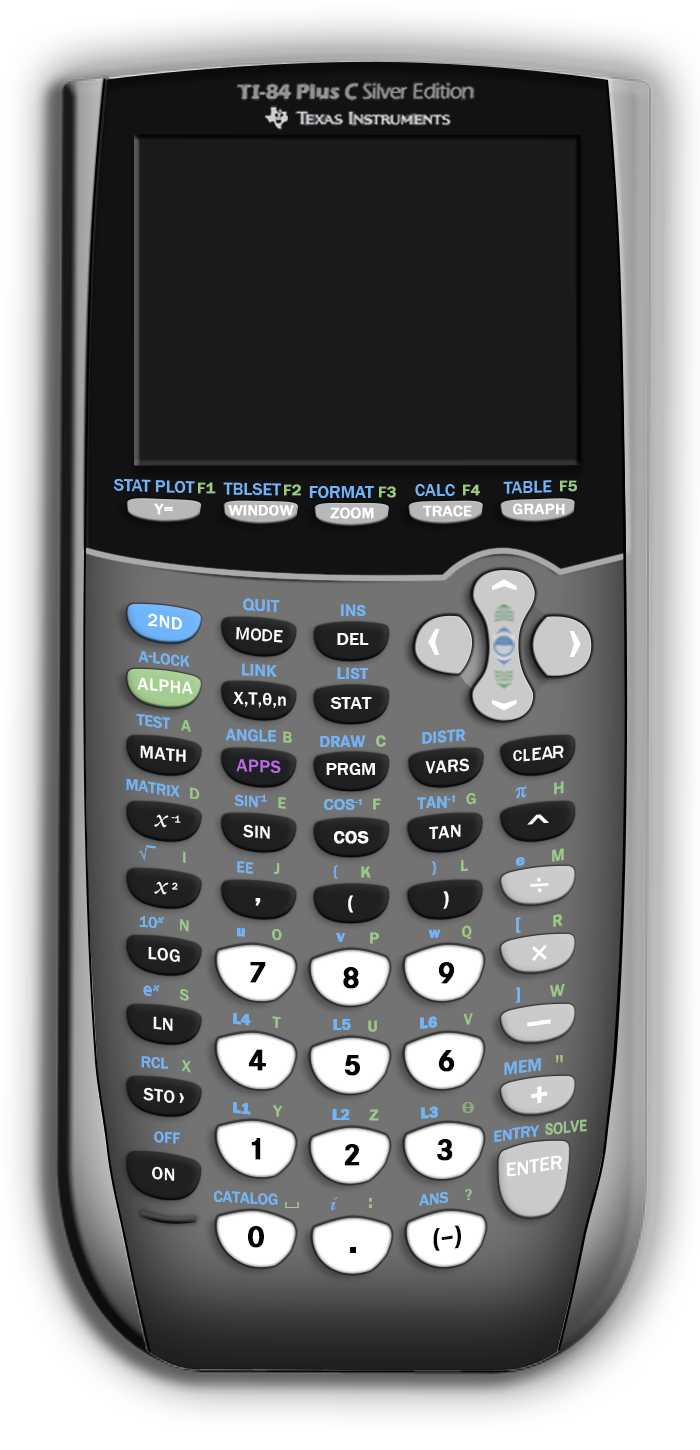
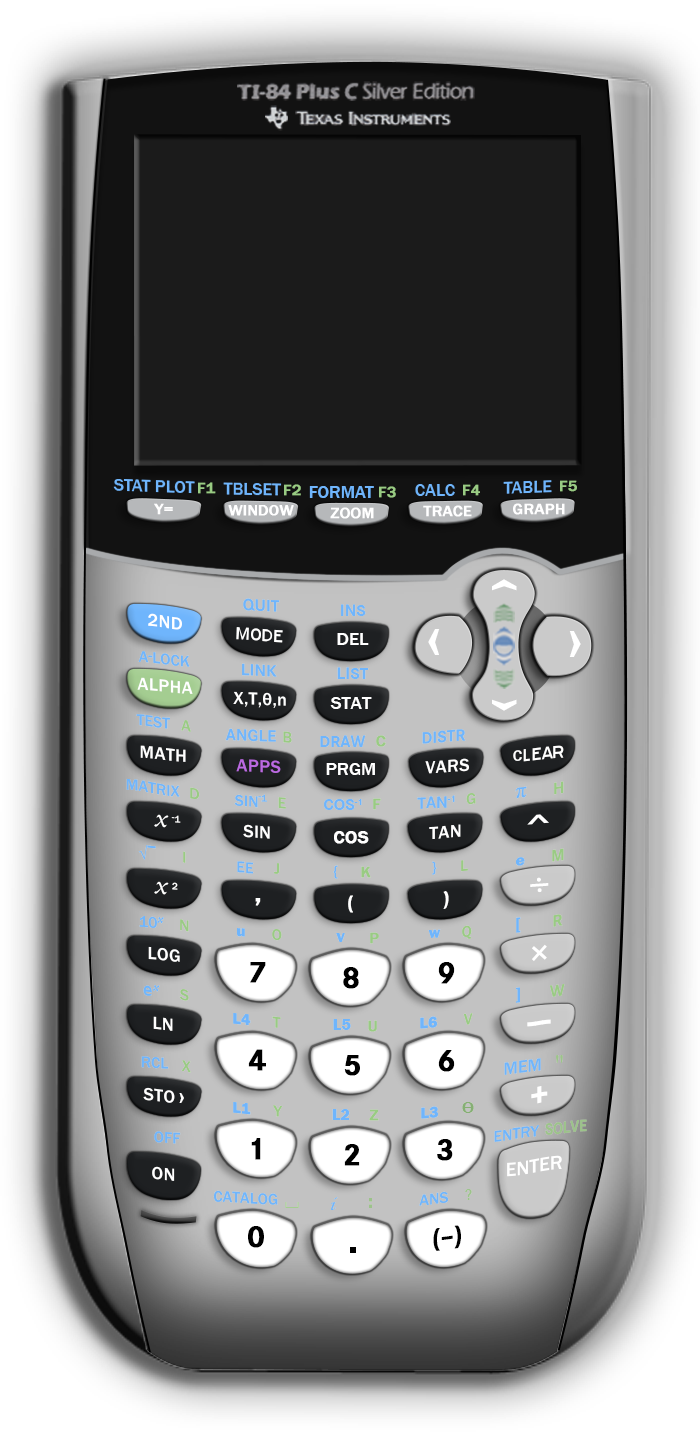
Improved faceplate colorization for 84PCSE Added export option for COM interface

Changed region(s): [[0.12, 0.3724, 0.9, 0.9621]]

diff --git a/interface/CWabbitemu.cpp b/interface/CWabbitemu.cpp
@@ -284,7 +284,7 @@ STDMETHODIMP CWabbitemu::get_Symbols(ITISymbolCollection **ppSymList)
 	CComObject<CTISymbolCollection> *pSymbolCollObj;
 	CComObject<CTISymbolCollection>::CreateInstance(&pSymbolCollObj);
 	pSymbolCollObj->AddRef();
-	pSymbolCollObj->Initialize((CalcModel) m_lpCalc->model, m_pMem, m_lpCalc);
+	pSymbolCollObj->Initialize(m_lpCalc, m_pMem);
 
 	HRESULT hr = pSymbolCollObj->QueryInterface(ppSymList);
 	pSymbolCollObj->Release();
@@ -294,7 +294,8 @@ STDMETHODIMP CWabbitemu::get_Symbols(ITISymbolCollection **ppSymList)
 
 STDMETHODIMP CWabbitemu::get_Keypad(IKeypad **ppKeypad)
 {
-	if (m_pKeypad == NULL) {
+	if (m_pKeypad == NULL)
+	{
 		return E_POINTER;
 	}
 
@@ -313,8 +314,8 @@ STDMETHODIMP CWabbitemu::get_Running(VARIANT_BOOL *lpfRunning)
 	return S_OK;
 }
 
-STDMETHODIMP CWabbitemu::get_Model(CALC_MODEL *lpCalcModel)
+STDMETHODIMP CWabbitemu::get_Model(CalcModel *lpCalcModel)
 {
-	*lpCalcModel = (CALC_MODEL) (m_lpCalc->model);
+	*lpCalcModel = m_lpCalc->model;
 	return S_OK;
 }

diff --git a/interface/CTISymbol.cpp b/interface/CTISymbol.cpp
@@ -1,6 +1,7 @@
 #include "stdafx.h"
 
 #include "CTISymbol.h"
+#include "exportvar.h"
 
 STDMETHODIMP CTISymbol::get_Type(SymbolType *lpSymbolType) {
 	*lpSymbolType = (SymbolType) m_Symbol.type_ID;
@@ -35,7 +36,7 @@ STDMETHODIMP CTISymbol::get_Address(WORD *lpAddr) {
 
 STDMETHODIMP CTISymbol::get_Name(BSTR *lpName) {
 	TCHAR real_name[256] = { 0 };
-	Symbol_Name_to_String(m_Model, &m_Symbol, real_name);
+	Symbol_Name_to_String(m_lpCalc->model , &m_Symbol, real_name);
 #ifdef _UNICODE
 	*lpName = SysAllocString((OLECHAR *)real_name);
 #else
@@ -43,5 +44,15 @@ STDMETHODIMP CTISymbol::get_Name(BSTR *lpName) {
 	MultiByteToWideChar(CP_ACP, 0, real_name, -1, wszSymName, ARRAYSIZE(wszSymName));
 	*lpName = SysAllocString((OLECHAR *)wszSymName);
 #endif
+	return S_OK;
+}
+
+STDMETHODIMP CTISymbol::Export(BSTR bstrFileName) {
+	MFILE *file = ExportVar(m_lpCalc, bstr_t(bstrFileName), &m_Symbol);
+	if (file == NULL) {
+		return E_FAIL;
+	}
+
+	mclose(file);
 	return S_OK;
 }

diff --git a/Interface/CTISymbolCollection.cpp b/Interface/CTISymbolCollection.cpp
@@ -3,7 +3,7 @@
 #include "CTISymbolCollection.h"
 #include "CTISymbol.h"
 
-HRESULT CTISymbolCollection::Initialize(CalcModel model, IMemoryContext *pMem, LPCALC lpCalc) 
+HRESULT CTISymbolCollection::Initialize(LPCALC lpCalc, IMemoryContext *pMem) 
 {
 	symlist_t symlist;
 	ZeroMemory(&symlist, sizeof(symlist_t));
@@ -13,7 +13,7 @@ HRESULT CTISymbolCollection::Initialize(CalcModel model, IMemoryContext *pMem, L
 	for (u_int i = 0; i < symlist.count; i++) {
 		CComObject<CTISymbol> *pSymbolObj;
 		HRESULT hr = CComObject<CTISymbol>::CreateInstance(&pSymbolObj);
-		pSymbolObj->Initialize(model, pMem, symlist.symbols[i]);
+		pSymbolObj->Initialize(lpCalc, pMem, symlist.symbols[i]);
 
 		CAdapt< CComPtr<ITISymbol> > pSymbol = pSymbolObj;
 		symbols.push_back(pSymbol);

diff --git a/interface/CTISymbol.h b/interface/CTISymbol.h
@@ -2,6 +2,7 @@
 
 #include "core.h"
 #include "state.h"
+#include "calc.h"
 
 class ATL_NO_VTABLE CTISymbol :
 	public CComObjectRootEx<CComMultiThreadModel>,
@@ -18,15 +19,17 @@ public:
 	STDMETHOD(get_Page)(IPage **lppPage);
 	STDMETHOD(get_Address)(WORD *lpAddr);
 	STDMETHOD(get_Name)(BSTR *lpName);
+	
+	STDMETHOD(Export)(BSTR lpFileName);
 
-	void Initialize(CalcModel model, IMemoryContext *pMem, symbol83P_t symbol) {
-		m_Model = model;
+	void Initialize(LPCALC lpCalc, IMemoryContext *pMem, symbol83P_t symbol) {
+		m_lpCalc = lpCalc;
 		m_pMem = pMem;
 		m_Symbol = symbol;
 	}
 
 private:
-	CalcModel m_Model;
+	LPCALC m_lpCalc;
 	CComPtr<IMemoryContext> m_pMem;
 	symbol83P_t m_Symbol;
 };

diff --git a/Interface/CTIApplication.cpp b/Interface/CTIApplication.cpp
@@ -1,6 +1,7 @@
 #include "stdafx.h"
 
 #include "CTIApplication.h"
+#include "exportvar.h"
 
 STDMETHODIMP CTIApplication::get_PageCount(int *lpVersion) {
 	*lpVersion = m_App.page_count;
@@ -25,5 +26,15 @@ STDMETHODIMP CTIApplication::get_Name(BSTR *lpName) {
 	MultiByteToWideChar(CP_ACP, 0, m_App.name, -1, wszSymName, ARRAYSIZE(wszSymName));
 	*lpName = SysAllocString((OLECHAR *)wszSymName);
 #endif
+	return S_OK;
+}
+
+STDMETHODIMP CTIApplication::Export(BSTR bstrFileName) {
+	MFILE *file = ExportApp(m_lpCalc, _bstr_t(bstrFileName), &m_App);
+	if (file == NULL) {
+		return E_FAIL;
+	}
+
+	mclose(file);
 	return S_OK;
 }

diff --git a/interface/CTIApplication.h b/interface/CTIApplication.h
@@ -2,6 +2,7 @@
 
 #include "core.h"
 #include "state.h"
+#include "calc.h"
 
 class ATL_NO_VTABLE CTIApplication :
 	public CComObjectRootEx<CComMultiThreadModel>,
@@ -18,8 +19,11 @@ public:
 	STDMETHOD(get_Page)(IPage **lppPage);
 	STDMETHOD(get_Name)(BSTR *lpName);
 
-	void Initialize(IMemoryContext *pMem, apphdr_t app)
+	STDMETHOD(Export)(BSTR lpFileName);
+
+	void Initialize(IMemoryContext *pMem, LPCALC lpCalc, apphdr_t app)
 	{
+		m_lpCalc = lpCalc;
 		m_pMem = pMem;
 		m_App = app;
 	}
@@ -27,5 +31,6 @@ public:
 private:
 	CComPtr<IMemoryContext> m_pMem;
 	apphdr_t m_App;
+	LPCALC m_lpCalc;
 };
 

diff --git a/interface/CWabbitemu.h b/interface/CWabbitemu.h
@@ -9,7 +9,6 @@
 #include "savestate.h"
 
 struct MainWindow;
-typedef CalcModel CALC_MODEL;
 
 #include "CBreakpointCollection.h"
 #include "CTISymbolCollection.h"
@@ -54,7 +53,7 @@ public:
 	STDMETHOD(get_Memory)(IMemoryContext **ppMemC);
 
 	STDMETHOD(get_Running)(VARIANT_BOOL *lpfRunning);
-	STDMETHOD(get_Model)(CALC_MODEL *lpCalcModel);
+	STDMETHOD(get_Model)(CalcModel *lpCalcModel);
 
 	STDMETHOD(Step)();
 	STDMETHOD(StepOver)();

diff --git a/interface/CTIApplicationCollection.cpp b/interface/CTIApplicationCollection.cpp
@@ -12,7 +12,7 @@ HRESULT CTIApplicationCollection::Initialize(IMemoryContext *pMem, LPCALC lpCalc
 	for (u_int i = 0; i < applist.count; i++) {
 		CComObject<CTIApplication> *pAppObj;
 		HRESULT hr = CComObject<CTIApplication>::CreateInstance(&pAppObj);
-		pAppObj->Initialize(pMem, applist.apps[i]);
+		pAppObj->Initialize(pMem, lpCalc, applist.apps[i]);
 
 		CAdapt< CComPtr<ITIApplication> > pApp = pAppObj;
 		apps.push_back(pApp);

diff --git a/Interface/CTISymbolCollection.h b/Interface/CTISymbolCollection.h
@@ -26,6 +26,6 @@ class ATL_NO_VTABLE CTISymbolCollection :
 		return E_NOTIMPL;
 	}
 
-	HRESULT Initialize(CalcModel model, IMemoryContext *pMem, LPCALC lpCalc);
+	HRESULT Initialize(LPCALC lpCalc, IMemoryContext *pMem);
 
 };
